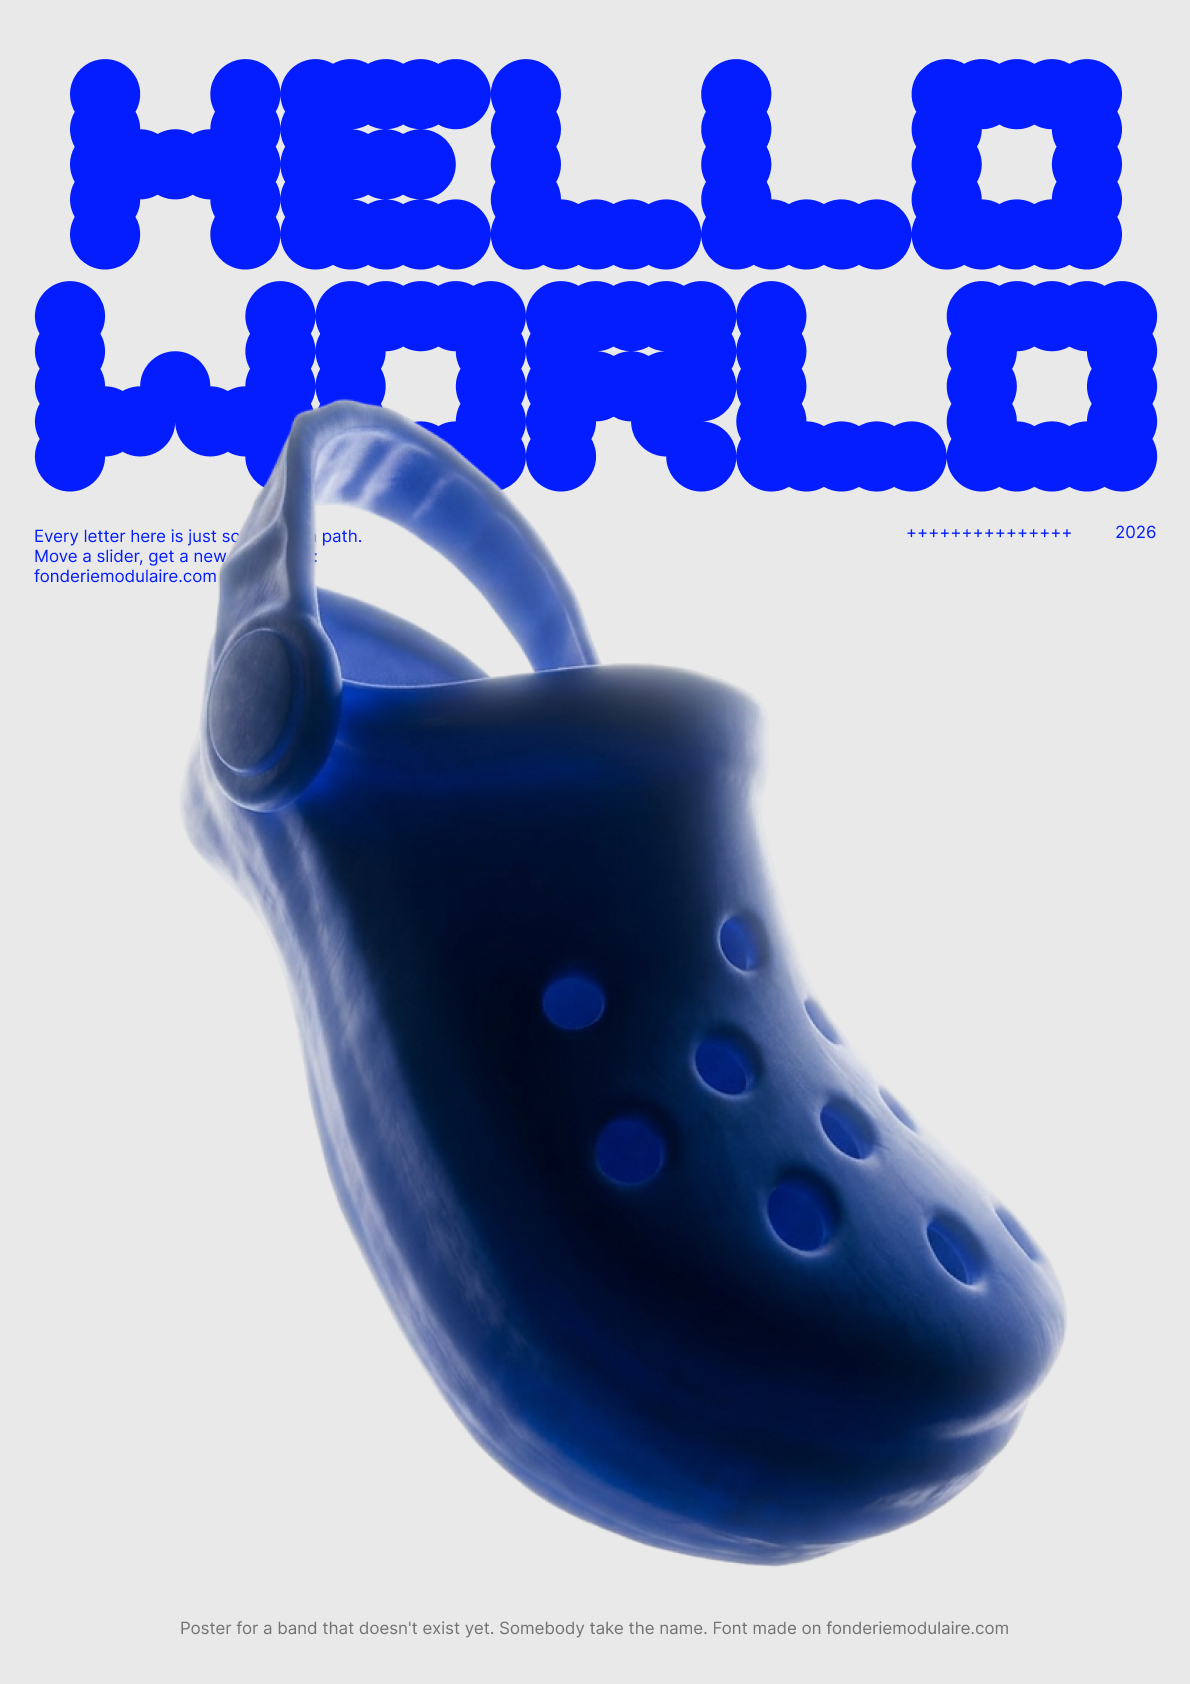
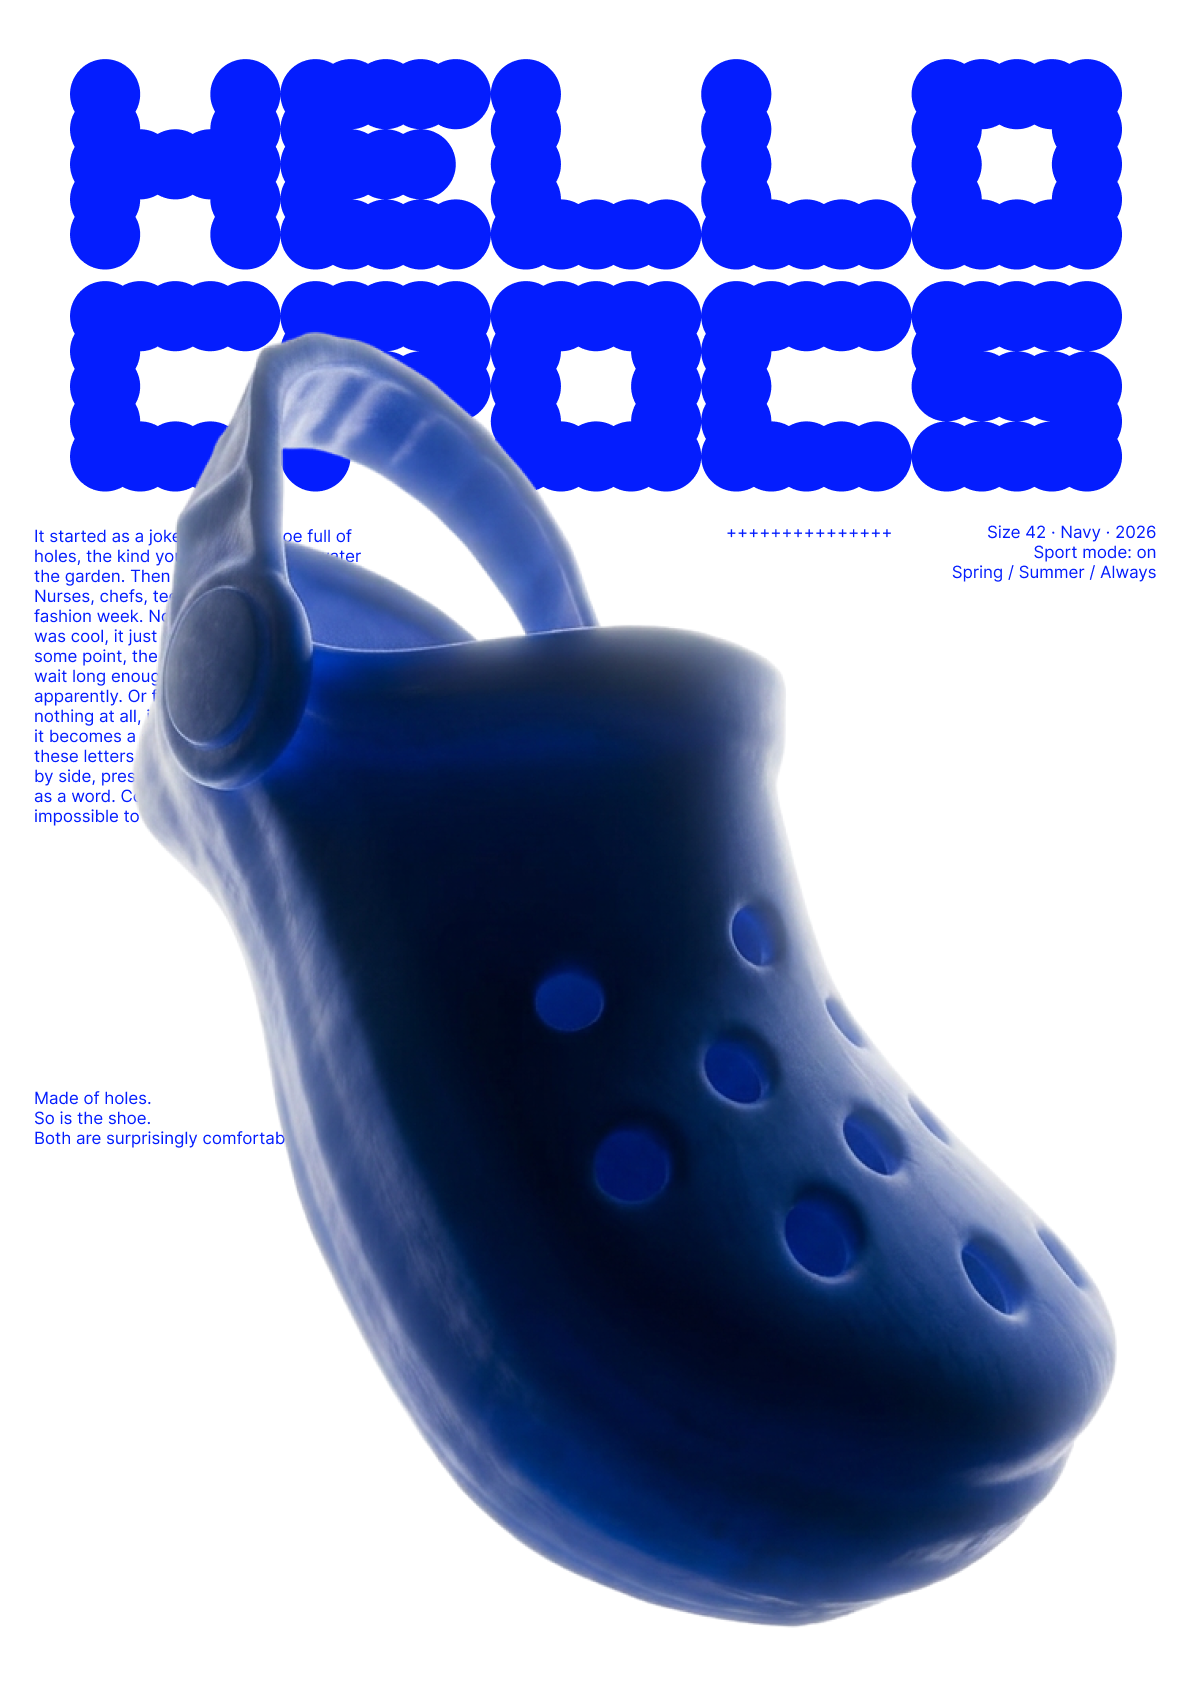
Showcase : affiche « Hello Crocs » mise à jour, titres entre guillemets

diff --git a/lib/fonderie/showcase.ts b/lib/fonderie/showcase.ts
@@ -7,7 +7,7 @@ import images from "./showcase-images.json"
 
 type Entry = {
   file: string // nom du fichier dans public/showcases/ (ex. "1.png")
-  title: string
+  title: string // affiché entre guillemets sur le site
   alt: string // description de l'image, pour les lecteurs d'écran
   author: string // crédit affiché (« by … »)
   authorUrl?: string
@@ -16,14 +16,14 @@ type Entry = {
 const ENTRIES: Entry[] = [
   {
     file: "1.png",
-    title: "Hello World",
-    alt: "Poster: HELLO WORLD in big merged blue dots, above a glossy blue clog floating on blue circles.",
+    title: "Hello Crocs",
+    alt: "Poster: HELLO CROCS in big merged blue dots, with a translucent blue clog floating over the letters and small blue texts on white.",
     author: "@guillaumebth",
     authorUrl: "https://www.instagram.com/guillaumebth/",
   },
   {
     file: "2.png",
-    title: "F, as in “fine, whatever”",
+    title: "F, as in ‘fine, whatever’",
     alt: "Poster: a giant letter F made of thick white rings with a red path running through them, on a red background.",
     author: "@guillaumebth",
     authorUrl: "https://www.instagram.com/guillaumebth/",

diff --git a/components/fonderie/showcase-gallery.tsx b/components/fonderie/showcase-gallery.tsx
@@ -39,7 +39,7 @@ export function ShowcaseGallery({ items }: { items: ShowcaseItem[] }) {
               />
             </button>
             <p className="text-xs leading-normal font-medium">
-              {it.title}
+              “{it.title}”
               <br />
               <span className="text-[10px] text-muted-foreground">
                 by{" "}
@@ -112,7 +112,7 @@ export function ShowcaseGallery({ items }: { items: ShowcaseItem[] }) {
                   </div>
                 </div>
                 <Dialog.Description className="px-5 pb-5 text-center text-xs leading-normal font-medium md:px-8">
-                  {item.title}{" "}
+                  “{item.title}”{" "}
                   <span className="text-white/60">by {item.author}</span>
                 </Dialog.Description>
               </>
